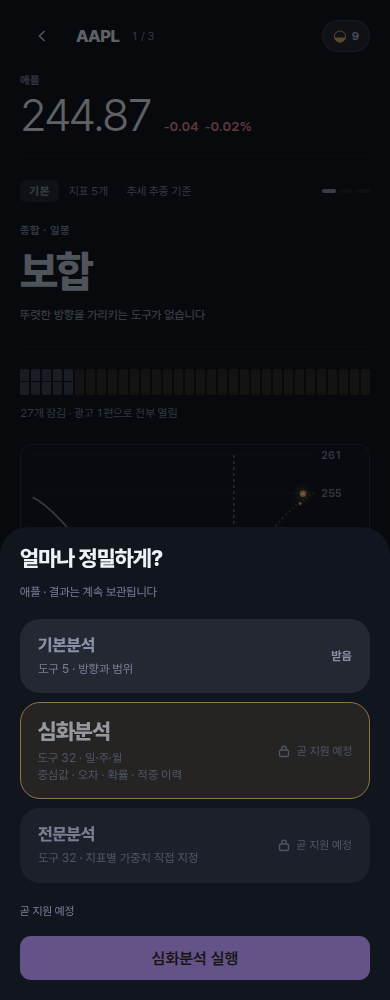
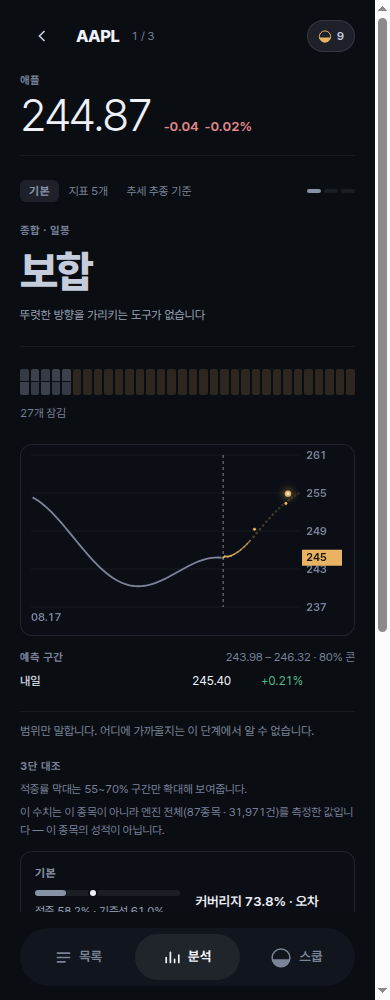
fix(mobile): 살 수 없는 걸 팔지 않는다 — P1a 최종 리뷰 수정 웨이브(C1·I1·M1)
병합 전 닫아야 할 것 셋:
- C1(Critical): 기본 리포트의 광고·스쿱 CTA 가 tierBuyable 여부와 무관하게
  항상 그려져, 광고를 봐도 열리지 않는 시트(심화·전문 둘 다 잠김)로 유도했다.
  buildCta()·buildComb() 을 tierBuyable 로 게이팅해 정직한 문구로 대체하고,
  잠긴 tier-sheet 에 "워치리스트로 돌아가기"(막다른 골목 금지)를 추가했다.
  브라우저 관문(report·report-locked-tiers)을 정직한 부재 단언으로 고치고,
  변이 검증(광고 버튼 강제 복원 → 관문 적색 확인 → 원복)으로 증명했다.
- I1(Important): 설계서 §3.5·report.js 의 "폭이 절반으로 좁아진다" 전제가
  §3.3 과 같은 이유로 반증됐다(28창 실측 — 좁아지는 사례 0%, 폭 비율 중앙값
  1.78배). 주석·설계서를 정정하고 P1b 가 rp-hz-prev 재작업 시 확인할 것을
  남겼다.
- M1(Minor): PROGRESS.md·task-8-report.md 의 ".ms-sheet 손잡이는 시각은 있고
  동작만 없다" 서술을 정정 — 시각 요소(::before) 자체가 없다.

검증: ./tests/run.sh 1613건 · gate-browser.mjs 8라우트 전부 통과.

diff --git a/map/mobile/www/screens/report.js b/map/mobile/www/screens/report.js
@@ -810,7 +810,12 @@
       var hidden = ForgeCore.indicatorCount - MSGraph.BASIC.length;   // 리터럴 27 이 아니라 역산값 — 지표가 늘면 같이 는다
       for (var i = 0; i < hidden; i++) bar.appendChild(combCell("is-locked"));
       wrap.appendChild(bar);
-      wrap.appendChild(MSUi.el("div", "rp-comb-note", hidden + MSStr.t.rpCombNote));
+      // [리뷰 C1] "광고 1편으로 전부 열림"은 약속이다 — buyable(광고든 스쿱이든 어느 화폐로
+      // 살 수 있는 티어가 하나라도 있음)일 때만 붙인다. 못 파는데 약속을 달면 buildCta() 의
+      // 광고 버튼과 같은 결함(살 수 없는 것을 판다)을 여기서 반복하는 것이다.
+      var noteText = hidden + MSStr.t.rpCombNote +
+        ((tierBuyable("full") || tierBuyable("custom")) ? MSStr.t.rpCombNoteAd : "");
+      wrap.appendChild(MSUi.el("div", "rp-comb-note", noteText));
       return wrap;
     }
 
@@ -836,8 +841,16 @@
       sec.appendChild(head);
       // 8a 직전 상태 대조 — 심화가 판 것을 화면에서 보이게 하는 유일한 장치다. 티어 실측이
       // 말하는 것은 "방향을 더 맞힌다"가 아니라 "폭이 정직해진다"인데, 대조 없이 심화 값만
-      // 단독으로 놓으면 사용자는 그 정직해짐을 볼 방법이 없다. 폭이 4.0 에서 ±1.1 로 좁아진
-      // 것을 **직전 값 옆에서** 봐야 "무엇을 샀는지"가 성립한다.
+      // 단독으로 놓으면 사용자는 그 정직해짐을 볼 방법이 없다.
+      // [리뷰 C1/I1, 2026-08-18 정정] 예전 주석은 여기서 "폭이 4.0 에서 ±1.1 로 좁아진다"고
+      // 적었는데, 그 전제가 실측으로 깨졌다 — 최종 리뷰어의 독립 실측(28창)은 **심화가 더
+      // 좁은 사례 0.0%, 폭 비율(심화÷기본) 중앙값 1.78배, 최대 7.09배**였다. 즉 지금 이
+      // 블록이 유료 티어에서 켜지면 사용자는 돈을 낸 직후 직전 무료 범위보다 **넓어진**
+      // 범위를 나란히 보게 된다("좁아진다"는 반대 사실이다) — 설계서 §3.5 정정과 같은
+      // 근거. P1b 가 이 대조를 다시 다듬을 때 확인할 것: 직전 기본 폭과 심화 폭의 대소를
+      // 실데이터로 먼저 재고, 넓어지는 쪽이 정상이면 **화면이 그 사실을 먼저 말해야 한다**
+      // (아래 rp-hz-row 의 반대 의견을 경고문처럼 위에 올리는 것과 같은 태도 — 불리한
+      // 것부터 말한다).
       // 없으면 그냥 없다(G1) — 회색 자리에 "—" 나 추정치를 채우지 않는다.
       var prev = prevBasic();
       if (prev) {
@@ -1357,6 +1370,17 @@
       var hidden = ForgeCore.indicatorCount - MSGraph.BASIC.length;
       wrap.appendChild(MSUi.el("p", "rp-unlock-line",
         MSStr.t.rpLockedA + hidden + MSStr.t.rpLockedB));
+
+      // [리뷰 C1, 2026-08-18] 심화·전문 둘 다 아직 못 그리는 블록이 있으면(pendingOf) 어느
+      // 티어도 살 수 없다 — 그 상태에서 "광고 1편으로 열기"·"스쿱 N개로 열기" 버튼을 그대로
+      // 두면 실제로 아무것도 열리지 않는 것을 판다(afterCtaAd/scoopBtn 이 결국 열어 보여줄
+      // 시트도 두 티어 다 잠긴 채다). 살 수 없는 것은 어느 화폐(광고=주의력, 스쿱)로도 팔지
+      // 않는다 — 이 판단을 CTA 버튼 자체를 안 그리는 것으로 한다(아래 buildComb() 의 약속
+      // 문구도 같은 tierBuyable 로 갈린다).
+      if (!tierBuyable("full") && !tierBuyable("custom")) {
+        wrap.appendChild(MSUi.el("p", "rp-missing-note", MSStr.t.rpUnlockSoon));
+        return wrap;
+      }
 
       var msg = MSUi.el("p", "rp-missing-note");
 

diff --git a/map/mobile/www/strings.js b/map/mobile/www/strings.js
@@ -256,10 +256,19 @@
     // 티어로 가는 유일한 진입점이라 반드시 존재해야 한다.
     rpUnlockAd: "광고 1편으로 열기", rpUnlockAdBadge: "30초",
     rpUnlockScoopA: "스쿱 ", rpUnlockScoopB: "개로 열기",
+    // [리뷰 C1, 2026-08-18] 심화·전문 둘 다 아직 못 그리는 블록이 있어(report.js PENDING)
+    // 어느 화폐로도 살 수 없을 때, 광고·스쿱 버튼 자리를 대신 채우는 문구. "P1b" 같은 내부
+    // 페이즈 용어를 쓰지 않는다 — tier-sheet.js 의 tsSoon 과 같은 어조.
+    rpUnlockSoon: "심화·전문 분석은 아직 준비 중입니다. 지금은 열 수 있는 것이 없습니다.",
     // 읽은 도구 접힌 한 줄(설계서 §3.2 항목6) — 32개를 나열하지 않는다.
     rpReadToolsA: "읽은 도구 ", rpReadToolsB: "개",
     // 지표 빗(comb) 밖 자물쇠 한 줄(설계서 §3.2 항목2) — 막대 옆이 아니라 빗 아래 한 줄로.
-    rpCombNote: "개 잠김 · 광고 1편으로 전부 열림",
+    // [리뷰 C1] "광고 1편으로 전부 열림"은 **약속**이다 — 실제로 열리지 않을 때(둘 다
+    // tierBuyable=false)까지 이 약속을 달면 살 수 없는 것을 판다. 그래서 두 조각으로
+    // 가른다: 개수(rpCombNote)는 항상, 약속(rpCombNoteAd)은 buildComb()이 buyable 일 때만
+    // 붙인다.
+    rpCombNote: "개 잠김",
+    rpCombNoteAd: " · 광고 1편으로 전부 열림",
     // 기본분석은 범위만 답한다(시안 18a). 이 문장이 이 티어의 판매 논리 그 자체다 —
     // 쓸모없게 만들면 첫인상이 나빠지고, 충분하게 만들면 살 이유가 없다(인벤토리 §3).
     rpBasicRangeNote: "범위만 말합니다. 어디에 가까울지는 이 단계에서 알 수 없습니다.",
@@ -436,6 +445,10 @@
     // 그리는 함수가 아직 없는 블록이 있는 티어는 팔지 않는다(리뷰 판정, 2026-08-18) —
     // tier-sheet.js 가 그 티어 행을 잠그며 쓴다. "P1b" 같은 내부 페이즈 용어를 쓰지 않는다.
     tsSoon: "곧 지원 예정",
+    // [리뷰 C1] 심화·전문이 둘 다 잠겨(picked===null) Run 도 못 누르는 상태는 백드롭 닫기
+    // 말고 할 게 없었다(blocked.js 의 "막다른 골목 금지" 규칙 위반) — 워치리스트로 돌려
+    // 보내는 버튼 문구.
+    tsBackToList: "워치리스트로 돌아가기",
     tsScoopUnit: "스쿱",                          // 심화분석 행의 값 아래 단위 라벨("3" + 이 값)
     tsSpendLead: "쓰면 ",                         // 비용 한 줄 왼쪽 — "쓰면 " + "12 → 9"
     tsRun: " 실행",                               // 버튼 — tsFull(위 주석) + 이 값

diff --git a/map/mobile/www/tier-sheet.js b/map/mobile/www/tier-sheet.js
@@ -129,6 +129,13 @@
         var run0 = MSUi.el("button", "btn btn-primary sheet-run", MSStr.t.tsFull + MSStr.t.tsRun);
         run0.disabled = true;
         list.appendChild(run0);
+        // [리뷰 C1] 여기서 끝내면 백드롭 닫기 말고 할 게 없다(blocked.js 의 "막다른 골목
+        // 금지" 규칙 — 이 시트에도 그대로 적용한다). 이 화면(sym)에서 살 수 있는 게 지금
+        // 없으니, 워치리스트로 돌려보낸다 — 다른 종목을 보든 나중에 다시 오든 사용자가
+        // 고를 수 있다.
+        var back = MSUi.el("button", "btn btn-ghost sheet-back-list", MSStr.t.tsBackToList);
+        back.addEventListener("click", function () { close(); MSApp.go("watchlist"); });
+        list.appendChild(back);
         return;
       }
 

diff --git a/map/mobile/www/style-sheet.css b/map/mobile/www/style-sheet.css
@@ -51,6 +51,9 @@
 
 .sheet-run { width:100%; margin-top:16px; background:var(--action); color:var(--gold-ink); }
 .sheet-run[disabled] { opacity:.5; }
+/* [리뷰 C1] 둘 다 잠겼을 때(picked===null) Run 이 비활성인 채로 끝나면 백드롭 닫기 말고
+   할 게 없다 — 워치리스트로 돌려보내는 다음 행동 버튼. */
+.sheet-back-list { width:100%; margin-top:10px; }
 
 /* ===== 2단 (폴드 펼침) =====
    미디어쿼리를 쓰지 않는다 — 경계값은 layout.js 의 MIN_W/MIN_H 가 유일한 출처이고,

diff --git a/map/mobile/docs/rebuild/PROGRESS.md b/map/mobile/docs/rebuild/PROGRESS.md
@@ -12,10 +12,10 @@
 
 ## 현재 위치
 
-- **페이즈**: P1a (재방문 여정 — 무료 경로: 워치리스트·기본분석 리포트·3단 대조·해제 블록·단계 선택 시트) — ✅ 완료 (Task 1~8)
+- **페이즈**: P1a (재방문 여정 — 무료 경로: 워치리스트·기본분석 리포트·3단 대조·해제 블록·단계 선택 시트) — ✅ 완료 (Task 1~8) + **최종 리뷰 수정 웨이브(C1·I1·M1) 완료**(아래 "P1a 최종 리뷰 수정 웨이브" 참고)
 - **브랜치**: `mobile-rebuild-p1a`
-- **마지막 커밋**: `a450221` docs(mobile): P1a 마감 — 관문 3중·시안 대조·APK 확인·원장 갱신 (Task 8)
-- **다음 한 걸음**: **P1b 계획서 작성**(진행 중계·해제 전환·심화 리포트·판독문 32, 시안 19a·8b·8a·18b·19b·20a — `docs/superpowers/specs/2026-08-18-moneyscoop-p1-design.md` §3.5~3.8이 확정 사실). 착수 전 아래 "막힌 것"의 **APK 실기기 확인**을 사용자가 완료해야 한다
+- **마지막 커밋**: (이 원장 갱신을 포함하는 커밋 — `git log --oneline -1` 로 확인. `docs(mobile): P1a 최종 리뷰 수정 웨이브` 계열)
+- **다음 한 걸음**: **P1b 계획서 작성**(진행 중계·해제 전환·심화 리포트·판독문 32, 시안 19a·8b·8a·18b·19b·20a — `docs/superpowers/specs/2026-08-18-moneyscoop-p1-design.md` §3.5~3.8이 확정 사실, §3.5는 이번 웨이브에서 실측으로 정정됨). 착수 전 아래 "막힌 것"의 **APK 실기기 확인**을 사용자가 완료해야 한다
 
 ## 막힌 것 / 사용자 대기
 
@@ -28,10 +28,18 @@
   - ⚠ APK 를 열면 지갑이 운영 서버(`wallet-api.php`)에 실제로 붙어 진짜 계정이 생기고 개설 지급이 실행된다.
 - **P0 에서 2단(폴드) 레이아웃을 일시 후퇴시킨다** — 라우터 위에 2단을 얹으면 "왼쪽 칸은 무슨 라우트인가"가 답이 없다. 시안 9b/9c 는 좌측 레일까지 요구하므로 P5 에서 통째로 설계한다. 그때까지 폴드 펼침은 단일 열이다
 
+## P1a 최종 리뷰 수정 웨이브 (병합 전 필수 3건 — 2026-08-18)
+
+브랜치 전체 리뷰 총평은 "이 위에 P1b 를 지어도 된다"였으나, 병합 전 닫아야 할 것 셋을 지정했다. 전부 처리 완료.
+
+- **C1(Critical) — 광고 CTA 가 살 수 없는 것을 팔았다**: `buildCta()`(`screens/report.js`)가 `tierBuyable('full')`·`tierBuyable('custom')` 이 둘 다 false 인데도(=심화·전문 어느 것도 못 판다) 항상 광고·스쿱 버튼을 그렸다 — 광고를 보고 잔량을 채워도 열리는 시트는 여전히 두 티어 다 잠겨 있어, 번 스쿱을 쓸 데가 0 이었다(`wallet.js` 의 `slot` COST 도 어디서도 spend 되지 않음). 고침: ①`buildCta()`가 buyable=false 면 버튼 대신 정직한 문구(`rpUnlockSoon`)를 낸다 ②지표 빗 밖 안내(`rp-comb-note`)도 같은 판단을 받아 "광고 1편으로 전부 열림" 약속(`rpCombNoteAd`)을 buyable 일 때만 붙인다 ③`tier-sheet.js` 의 완전잠금(`picked===null`) 화면에 "워치리스트로 돌아가기" 버튼을 추가(막다른 골목 금지) ④브라우저 관문(`gate-routes.mjs` `report`·`report-locked-tiers` 라우트)이 이제 잠금 상태에서 광고·스쿱 버튼의 **부재**를 단언하고(예전엔 존재+순서를 무조건 요구해 거짓 문구를 고정했다), P1b 가 잠금을 풀 때 되살릴 순서 단언을 주석으로 남겨뒀다. 변이 검증(잠긴 상태에서 광고 버튼을 강제로 되살림)으로 관문이 실제로 빨개지는 것 확인 후 원복.
+- **I1(Important) — P1b 사양(설계서 §3.5)에 반증된 전제**: "심화가 폭을 절반으로 줄인다"(§3.3 의 전제)와 같은 뿌리의 오류가 §3.5(직전 상태 대조, `rp-hz-prev`)에도 남아 있었다 — 최종 리뷰어 실측(28창): 심화가 더 좁은 사례 0.0%, 폭 비율 중앙값 1.78배, 최대 7.09배. 설계서 §3.5와 `screens/report.js`(`rp-hz-prev` 생성부) 주석을 실측으로 정정하고, P1b 가 이 블록을 켤 때 확인할 것(직전 기본 폭·심화 폭의 대소를 실데이터로 먼저 재고, 넓어지는 게 정상이면 화면이 그 사실을 먼저 말한다)을 남겼다.
+- **M1(Minor·문구) — 아래 드래그 손잡이 서술 정정**: 이 파일과 `task-8-report.md` 둘 다 고쳤다(아래 항목·해당 문서 참고).
+
 ## P1a 가 남긴 부채 (P1b 착수 전 참고)
 
-- **심화·전문분석이 P1b 블록 때문에 잠겨 있다** — 단계 선택 시트(6b)에서 두 티어가 "곧 지원 예정"으로 비활성. 스쿱 비용(3/5)·비용 미리보기("쓰면 12→9")·"가장 많이 씀" 배지가 전부 안 뜬다. P1b가 8블록 심화 리포트를 완성하면 자연히 풀린다
-- **`.ms-sheet` 드래그 손잡이 부재** — 시각적 바는 있으나 드래그로 닫는 동작이 없다(P0부터 이월된 항목)
+- **심화·전문분석이 P1b 블록 때문에 잠겨 있다** — 단계 선택 시트(6b)에서 두 티어가 "곧 지원 예정"으로 비활성. 스쿱 비용(3/5)·비용 미리보기("쓰면 12→9")·"가장 많이 씀" 배지가 전부 안 뜬다. **[갱신, 최종 리뷰 C1]** 리포트 화면의 해제 CTA(광고·스쿱 버튼)도 이제 이 잠금을 정직하게 반영한다 — 예전엔 버튼이 buyable 여부와 무관하게 항상 떴다. P1b가 8블록 심화 리포트를 완성하면 이 잠금이 자연히 풀리고, 그때 CTA 버튼과 시트 순서 단언(관문에 주석으로 남겨둠)이 함께 되살아난다
+- **`.ms-sheet` 드래그 손잡이 부재** — [정정, 최종 리뷰 M1] "시각적 바는 있으나 드래그로 닫는 동작이 없다"는 예전 서술은 사실이 아니었다 — `style-sheet.css`(현재 `.ms-sheet` 규칙 주변)에 손잡이 `::before` 자체가 없다(구 `.sheet::before` 를 P1a Task 6 에서 지웠다는 주석만 남아 있다). 즉 시각 요소부터 없는 순수 시각 회귀이지, 시각은 있고 동작만 빠진 것이 아니다. 드래그로 닫는 동작·손잡이 시각 둘 다 미구현(P0부터 이월된 항목)
 - **재진입 가드의 "리셋 후 재개" 미검증** — 시트를 닫았다 다시 여는 등 상태 재진입 경로가 node 시험만으로 확인됐고 실기기 왕복 검증은 아직
 - **"가장 많이 씀" 배지의 노출 조건 재검토 후보** — 배지는 인기도 정보라 판매 가능 여부(잠금)와 무관하게 보여줄 수도 있었다. 이번 라운드는 고치지 않고 P1b 착수 시 재검토 후보로만 남긴다(task-8-report.md 시안 대조 참고)
 

diff --git a/map/docs/superpowers/specs/2026-08-18-moneyscoop-p1-design.md b/map/docs/superpowers/specs/2026-08-18-moneyscoop-p1-design.md
@@ -96,7 +96,7 @@
 
 - **「한 문장으로」가 맨 위** — 숫자를 먼저 내면 대부분은 해석을 못 하고 닫는다. 방향·과열·저항선 세 값으로 **규칙 조합**한 템플릿이다(생성 문구가 아니다)
 - 판정: `도구 32개 중 24개` + **동의 24 · 반대 6 · 무판정 2**(합이 카운터와 맞아야 한다)
-- **직전 상태를 위에 남긴다** — "내일은 어디쯤" 맨 위에 `기본분석에서는 232 – 236 · 폭 4.0`이 회색으로. 두 막대가 길이로 겹쳐 절반이 눈으로 확인된다
+- **직전 상태를 위에 남긴다** — "내일은 어디쯤" 맨 위에 `기본분석에서는 232 – 236 · 폭 4.0`이 회색으로. **정정(2026-08-18, 최종 리뷰 C1/I1)**: 원문은 이어서 "두 막대가 길이로 겹쳐 절반이 눈으로 확인된다"고 지시했는데, **그 전제도 §3.3 의 "절반" 전제와 같은 이유로 깨졌다.** 최종 리뷰어가 독립 실측(28개 창)한 결과 **심화가 기본보다 더 좁은 사례는 0.0%, 폭 비율(심화÷기본) 중앙값 1.78배, 최대 7.09배** — 유료 사용자는 돈을 낸 직후 직전 무료 범위보다 오히려 **넓어진** 범위를 나란히 보게 된다. "절반이 확인된다"는 문장은 반대 사실을 지시하므로 그대로 구현하지 않는다. `rp-hz-prev`(이 블록의 실제 구현, `screens/report.js` — 유료 티어에서 이미 켜져 있다)를 P1b 가 다시 손댈 때 확인할 것 한 줄: **직전 기본 폭과 심화 폭의 대소를 실데이터로 먼저 재고, 넓어지는 쪽이 정상이면 화면이 그 사실을 먼저 말해야 한다** — 이 절 자체의 규칙(반대 의견·불리한 사실을 경고문처럼 먼저 올린다)과 같은 태도다
 - 기간별: `3개 중 2개 일치`. **1개월이 하락이면 하락이라고 쓴다** — 셋이 다 맞는 것만 보여주면 거짓이다
 - 반대 의견은 **경고문처럼 위에** 올린다("불리한 것도 준다"가 먼저 읽히게)
 - 적중률에 **범위 주석 필수**(`rpHitScopeShort`) — 이 종목의 성적이 아니라 엔진 전체 측정값
